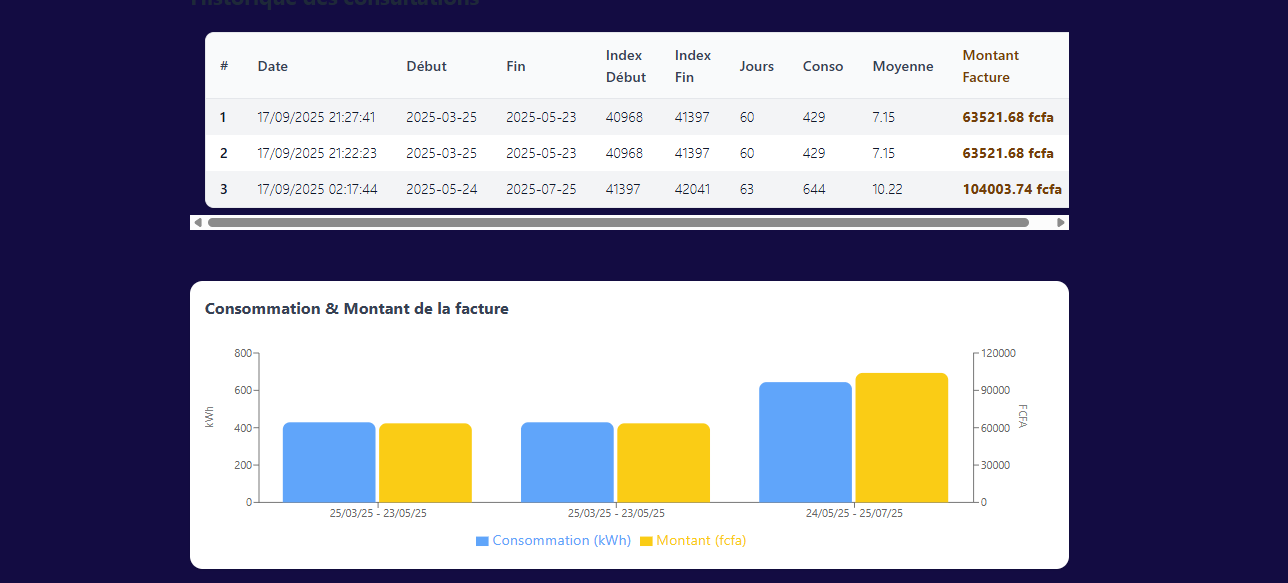
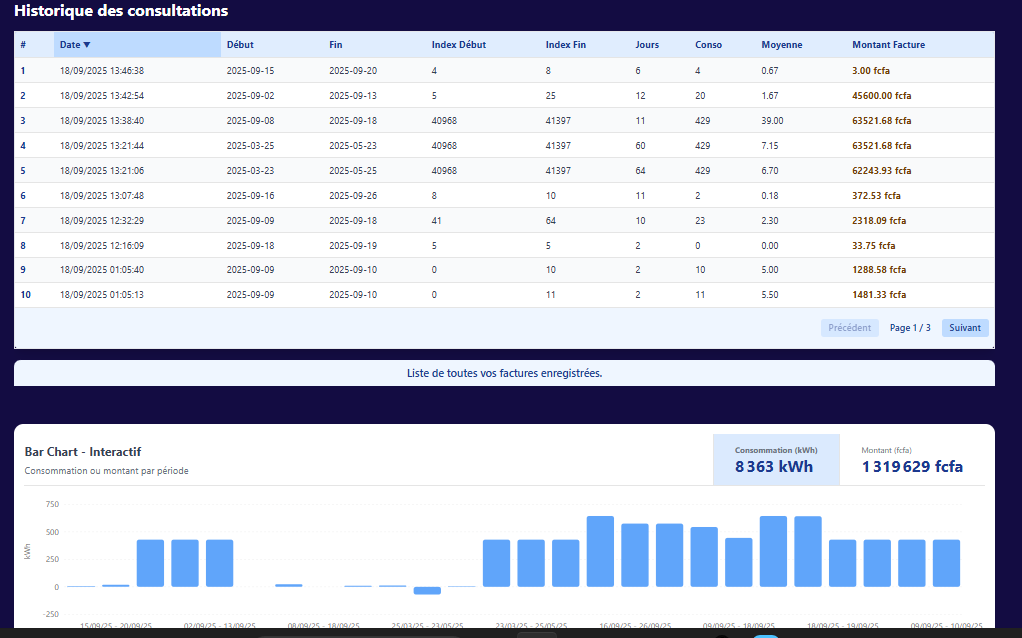
feat: update README with new features and add screenshots for invoice addition and history

diff --git a/README.md b/README.md
@@ -6,10 +6,13 @@ WattTrack est une application web moderne qui vous permet de suivre, simuler et 
 
 ---
 
+
 ## 🚀 Fonctionnalités principales
 
 - **Simulation de facture** : Entrez vos indices de compteur et dates de relevé pour obtenir une estimation détaillée de votre consommation et du montant à payer.
-- **Historique des consultations** : Visualisez vos 3 dernières simulations avec tous les détails (dates, index, consommation, montant, etc.).
+- **Ajout manuel de facture** : Ajoutez une facture à l'historique via un formulaire dédié.
+- **Historique des consultations** : Visualisez l'ensemble de vos simulations avec tous les détails (dates, index, consommation, montant, etc.).
+- **Export/Import de l'historique** : Exportez votre historique au format JSON pour le sauvegarder, et importez-le à tout moment pour le restaurer.
 - **Graphiques interactifs** : Comparez visuellement votre consommation et le montant de vos factures sur vos dernières périodes.
 - **Comparaison de périodes** : Simulez et comparez le montant de votre facture pour différentes durées de facturation (50 à 65 jours).
 - **Interface responsive** : Design moderne, agréable et adapté à tous les écrans.
@@ -103,6 +106,10 @@ prevision_elec/
 
 ### Accueil (mobile)
 ![Accueil mobile](screenshots/acceuil%20mobile.png)
+
+
+### Ajout d'une facture (desktop)
+![Ajout facture](screenshots/ajout%20facture.png)
 
 ### Simulation & Résultats (desktop)
 ![Calcul et résultats](screenshots/calcul%20et%20resultats.png)
